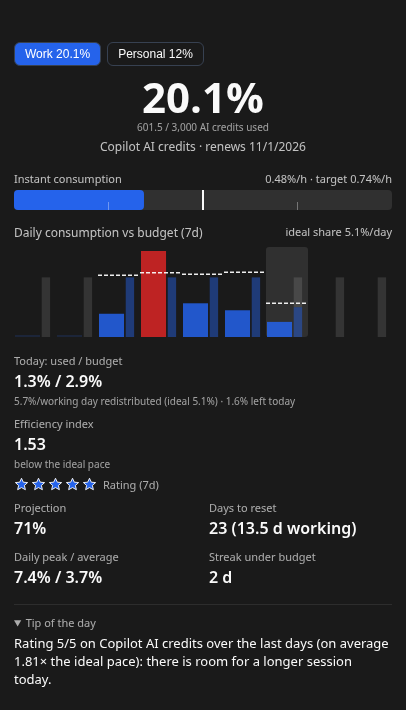
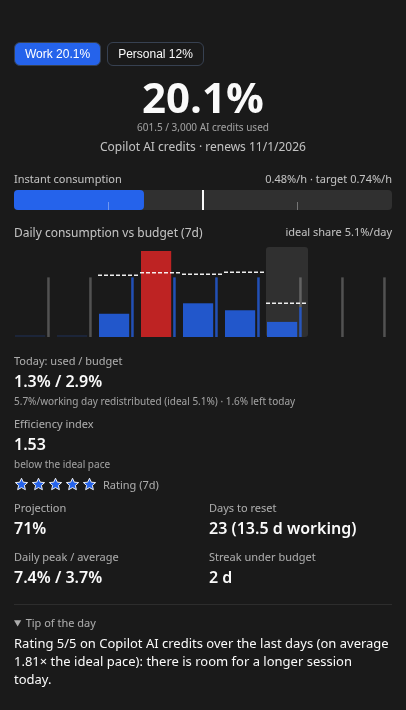
feat(chart): thin share bars of about 2.5 px
The even-share bar beside each day is now ~2.5 px wide right next to the
consumption bar (user feedback), with stronger opacity so it stays readable on the
dark skin. Screenshots updated.

diff --git a/renderer/app.ts b/renderer/app.ts
@@ -289,9 +289,12 @@ function renderChart(winSnap: QuotaWindowSnapshot | undefined): void {
   const height = 90;
   const max = Math.max(0.1, ...series.map((d) => Math.max(d.delta ?? 0, d.fullShare ?? 0, d.budget ?? 0)));
   const slotWidth = width / series.length;
-  const barWidth = Math.max(1, slotWidth * 0.62 - 1);
-  const shareX = slotWidth * 0.66;
-  const shareWidth = Math.max(1.5, slotWidth * 0.2);
+  // Thin share bar of about 2.5 px right beside the consumption bar (user feedback:
+  // a few pixels are enough), narrower only when 30 slots leave no room.
+  const shareWidth = Math.min(2.5, slotWidth * 0.2);
+  const shareGap = Math.min(2, slotWidth * 0.1);
+  const barWidth = Math.max(1, slotWidth * 0.85 - shareWidth - shareGap - 1);
+  const shareX = 1 + barWidth + shareGap;
   const scale = (value: number) => (value / max) * (height - 4);
 
   const svgNs = 'http://www.w3.org/2000/svg';
@@ -342,8 +345,8 @@ function renderChart(winSnap: QuotaWindowSnapshot | undefined): void {
     if (point.fullShare !== null && point.fullShare > 0) {
       const working = scale(point.fullShare * point.dayUnit);
       const rest = scale(point.fullShare * (1 - point.dayUnit));
-      if (working > 0) addRect(x + shareX, height - working, shareWidth, working, 'var(--accent)', '0.45');
-      if (rest > 0) addRect(x + shareX, height - working - rest, shareWidth, rest, 'currentColor', '0.12');
+      if (working > 0) addRect(x + shareX, height - working, shareWidth, working, 'var(--accent)', '0.75');
+      if (rest > 0) addRect(x + shareX, height - working - rest, shareWidth, rest, 'currentColor', '0.25');
     }
 
     if (point.budget !== null && point.budget > 0) {
